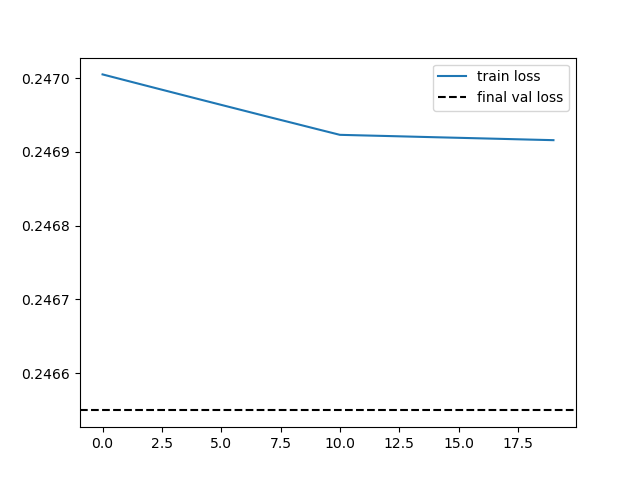
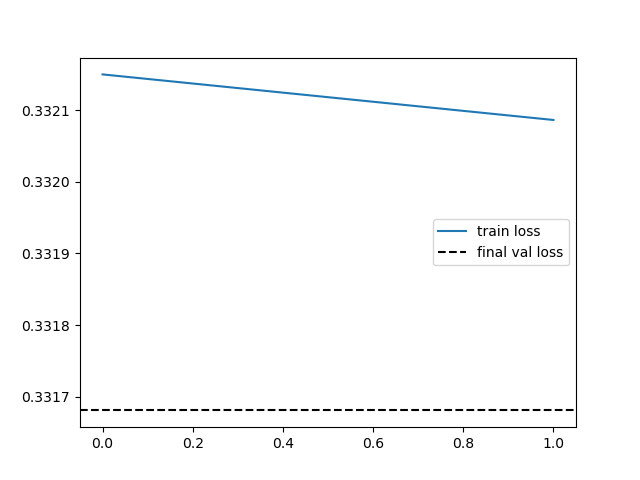
added timers

diff --git a/seq2contact.py b/seq2contact.py
@@ -27,7 +27,7 @@ class Sequences2Contacts(Dataset):
         y_path = self.paths[index] + '/data_out/contacts.txt'
         y = np.loadtxt(y_path)[:self.n, :self.n] # TODO delete this later
         y = y.reshape(1, self.n, self.n)
-        y /= np.max(y)cat
+        y /= np.max(y)
 
         if self.toxx:
             x_path = self.paths[index] + '/xx.npy'
@@ -66,17 +66,30 @@ def train(train_loader, model, optimizer, criterion, device, save_location,
     train_loss = []
     val_loss = []
     for e in range(epochs):
+        print('Start epoch')
+        t0 = time.time()
         model.train()
         avg_loss = 0
         for t, (x,y) in enumerate(train_loader):
+            t1 = time.time()
+            print('Start enumerate: {}'.format(t1 - t0))
             x = x.to(device)
             y = y.to(device)
+            t2 = time.time()
+            print('moved x and y: {}'.format(t2 - t1))
             optimizer.zero_grad()
             yhat = model(x)
+            t3 = time.time()
+            print('forward: {}'.format(t3 - t2))
             loss = criterion(yhat, y)
             avg_loss += loss.item()
+            t4 = time.time()
+            print('loss: {}'.format(t4 - t3))
             loss.backward()
             optimizer.step()
+            t5 = time.time()
+            print('backward and optim: {}'.format(t5 - t4))
+        print('finished epoch {}: {}'.format(e, time.time() - t0))
         if e % print_mod == 0:
             print('Epoch %d, loss = %.4f' % (e, loss.item()))
         if (e + 1) % save_mod == 0:
@@ -127,7 +140,7 @@ def main(dir, epochs = 1000, device = 'cuda:0', k = 2):
     criterion = F.mse_loss
 
     train_loss_arr = train(train_dataloader, model, optimizer,
-            criterion, device, save_location = 'model1.pt', epochs = epochs)
+            criterion, device, save_location = 'modeltest.pt', epochs = epochs)
     val_loss = test(val_dataloader, model, optimizer, criterion, device)
 
     print('Total time: {}'.format(time.time() - t0))
@@ -142,4 +155,4 @@ def main(dir, epochs = 1000, device = 'cuda:0', k = 2):
 if __name__ == '__main__':
     clusterdir = '../../../project2/depablo/erschultz/dataset_04_06_21'
     mydir = 'dataset_04_06_21'
-    main(clusterdir, 50)
+    main(clusterdir, 2)

diff --git a/utils.py b/utils.py
@@ -1,6 +1,8 @@
 from numba import jit
 import numpy as np
 import os
+import torch
+import matplotlib.pyplot as plt
 
 def make_dataset(dir):
     data_file_arr = []
@@ -56,12 +58,12 @@ def generateProbDist(y, d):
     return prob
 
 def plotModelFromDir(dir, model, ofile):
-    saveDict = torch.load(dir)
-    model.load_state_dict(load_g['model_state_dict'])
+    saveDict = torch.load(dir, map_location=torch.device('cpu'))
+    model.load_state_dict(saveDict['model_state_dict'])
     epochs = saveDict['epoch']
+    print(epochs)
     train_loss_arr = saveDict['train_loss']
     plt.plot(np.arange(0, epochs), train_loss_arr, label = 'train loss')
-    plt.axhline(y = val_loss, color = 'black', linestyle = '--', label = 'final val loss')
     plt.legend()
     plt.savefig('images/' + ofile)
     plt.close()

diff --git a/plotting_script.py b/plotting_script.py
@@ -7,6 +7,7 @@ def main():
     plotModelFromDir(dir, model, 'model1_train_loss.png')
 
     dir = 'UNET1.pt'
+    k=2
     model = UNet(nf_in = 2*k, nf_out = 1, nf = 4, out_act = nn.Sigmoid())
     plotModelFromDir(dir, model, 'UNET_train_loss.png')
 
